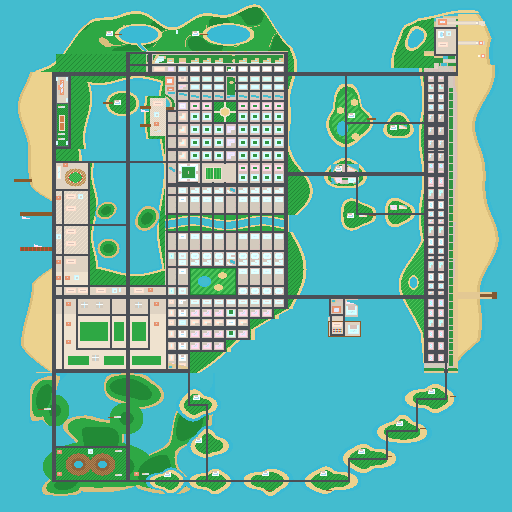
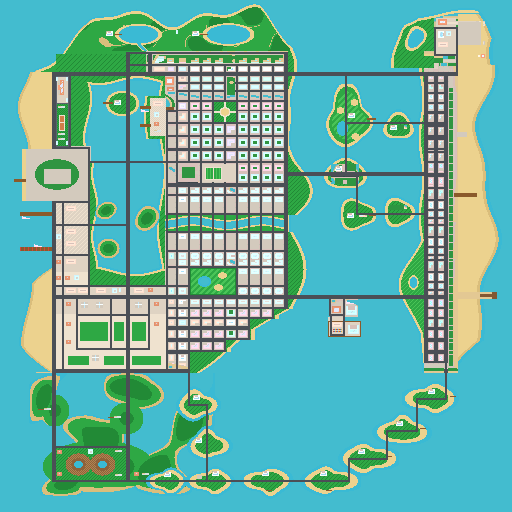
Sync live GPS Smartphone map, [M] Full Map, and vice_cmp_overview.png with Super-Speedway, Hank's Waffles, Mambas Stadium & 3D landmarks (v100_71)

diff --git a/js/object_engine.js b/js/object_engine.js
@@ -8910,9 +8910,29 @@ class WorldObjectEngine {
         for (const [x0, x1, y0, y1] of pavedStonePlazas) {
             ctx.fillRect(x0 * TILE_SIZE * sx, y0 * TILE_SIZE * sy, (x1 - x0 + 1) * TILE_SIZE * sx, (y1 - y0 + 1) * TILE_SIZE * sy);
         }
-        // Vice Beach Pier Wooden Boardwalk (c = 455..467, r = 193..196)
+        // Vice Beach Pier Wooden Boardwalk (c = 454..476, r = 193..196)
         ctx.fillStyle = "#b88655";
-        ctx.fillRect(455 * TILE_SIZE * sx, 193 * TILE_SIZE * sy, 13 * TILE_SIZE * sx, 4 * TILE_SIZE * sy);
+        ctx.fillRect(454 * TILE_SIZE * sx, 193 * TILE_SIZE * sy, 23 * TILE_SIZE * sx, 4 * TILE_SIZE * sy);
+
+        // Vice City Mambas 3D Octagonal Football Stadium (c = 179..197, r = 164..180)
+        if (this.mambasStadium) {
+            const mcx = this.mambasStadium.x * sx;
+            const mcy = this.mambasStadium.y * sy;
+            // Coral concourse plaza
+            ctx.fillStyle = "#d8c0ba";
+            ctx.fillRect(179 * TILE_SIZE * sx, 164 * TILE_SIZE * sy, 19 * TILE_SIZE * sx, 17 * TILE_SIZE * sy);
+            // Outer 3D stadium bowl & teal canopy ring
+            ctx.fillStyle = "#0d9488";
+            ctx.fillRect(mcx - 540 * sx, mcy - 440 * sy, 1080 * sx, 880 * sy);
+            ctx.fillStyle = "#f1f5f9";
+            ctx.fillRect(mcx - 496 * sx, mcy - 396 * sy, 992 * sx, 792 * sy);
+            // Emerald football turf pitch & endzones
+            ctx.fillStyle = "#16a34a";
+            ctx.fillRect(mcx - 384 * sx, mcy - 284 * sy, 768 * sx, 568 * sy);
+            ctx.strokeStyle = "rgba(255, 255, 255, 0.75)";
+            ctx.lineWidth = Math.max(1, 24 * sx);
+            ctx.strokeRect(mcx - 350 * sx, mcy - 256 * sy, 700 * sx, 512 * sy);
+        }
 
         // Major 3D Landmarks on GPS / Overview Map
         const lm = this.landmarks3D || {};
@@ -8927,6 +8947,12 @@ class WorldObjectEngine {
             ctx.fillRect((lm.launchpad.x - 104) * sx, (lm.launchpad.y - 104) * sy, 208 * sx, 208 * sy);
             ctx.fillStyle = "#ea580c";
             ctx.fillRect((lm.launchpad.x - 24) * sx, (lm.launchpad.y - 24) * sy, 48 * sx, 48 * sy);
+        }
+        if (lm.airportTerminal) {
+            ctx.fillStyle = "#cbd5e1";
+            ctx.fillRect((lm.airportTerminal.x - 360) * sx, (lm.airportTerminal.y - 68) * sy, 720 * sx, 136 * sy);
+            ctx.fillStyle = "#0ea5e9";
+            ctx.fillRect((lm.airportTerminal.x - 310) * sx, (lm.airportTerminal.y - 46) * sy, 620 * sx, 92 * sy);
         }
         if (lm.atcTower) {
             ctx.fillStyle = "#cbd5e1";
@@ -8963,20 +8989,51 @@ class WorldObjectEngine {
             ctx.fillRect((lm.thrillbillyArena.x - 78) * sx, (lm.thrillbillyArena.y - 48) * sy, 156 * sx, 96 * sy);
         }
         if (lm.gellhornSpeedway) {
+            // West Coast Golden Sand Beach (c = 22..25, r = 149..200, preserving wooden pier at r = 179..181)
+            ctx.fillStyle = "#ecd28e";
+            ctx.fillRect(22 * TILE_SIZE * sx, 149 * TILE_SIZE * sy, 4 * TILE_SIZE * sx, 30 * TILE_SIZE * sy);
+            ctx.fillRect(22 * TILE_SIZE * sx, 182 * TILE_SIZE * sy, 4 * TILE_SIZE * sx, 19 * TILE_SIZE * sy);
+            // Perimeter Highways around Super-Speedway (North y=147..148, East x=88..89, South y=201..202)
+            ctx.fillStyle = "#4b4f56";
+            ctx.fillRect(52 * TILE_SIZE * sx, 147 * TILE_SIZE * sy, 38 * TILE_SIZE * sx, 2 * TILE_SIZE * sy);
+            ctx.fillRect(88 * TILE_SIZE * sx, 147 * TILE_SIZE * sy, 2 * TILE_SIZE * sx, 56 * TILE_SIZE * sy);
+            ctx.fillRect(52 * TILE_SIZE * sx, 201 * TILE_SIZE * sy, 38 * TILE_SIZE * sx, 2 * TILE_SIZE * sy);
+            // Paved Super-Speedway Paddock Concourse (c = 26..87, r = 149..200)
+            ctx.fillStyle = "#d3cabd";
+            ctx.fillRect(26 * TILE_SIZE * sx, 149 * TILE_SIZE * sy, 62 * TILE_SIZE * sx, 52 * TILE_SIZE * sy);
             const gcx = (lm.gellhornSpeedway.centerX || (57.0 * TILE_SIZE)) * sx;
             const gcy = (lm.gellhornSpeedway.centerY || (174.5 * TILE_SIZE)) * sy;
             const grx = (lm.gellhornSpeedway.rx || (24.5 * TILE_SIZE)) * sx;
             const gry = (lm.gellhornSpeedway.ry || (17.5 * TILE_SIZE)) * sy;
-            ctx.strokeStyle = "#475569";
-            ctx.lineWidth = Math.max(4, 248 * sx);
+            // Emerald Turf Infield + Paved Pit Lane Apron
+            ctx.fillStyle = "#2f9541";
+            ctx.beginPath();
+            ctx.ellipse(gcx, gcy, grx * 0.88, gry * 0.85, 0, 0, Math.PI * 2);
+            ctx.fill();
+            ctx.fillStyle = "#cbd5e1";
+            ctx.fillRect(44 * TILE_SIZE * sx, 169 * TILE_SIZE * sy, 27 * TILE_SIZE * sx, 14 * TILE_SIZE * sy);
+            // Outer FIA Red/White Curbs & 248px Banked Asphalt Super-Oval
+            ctx.strokeStyle = "#ef4444";
+            ctx.lineWidth = Math.max(4.5, 292 * sx);
             ctx.beginPath();
             ctx.ellipse(gcx, gcy, grx, gry, 0, 0, Math.PI * 2);
             ctx.stroke();
+            ctx.strokeStyle = "#334155";
+            ctx.lineWidth = Math.max(3.5, 248 * sx);
+            ctx.beginPath();
+            ctx.ellipse(gcx, gcy, grx, gry, 0, 0, Math.PI * 2);
+            ctx.stroke();
+            // North & South Covered Mega-Grandstands + 6-Bay Infield Pit Crew Garage
             ctx.fillStyle = "#ef4444";
-            ctx.fillRect(gcx - 440 * sx, gcy - 1330 * sy, 880 * sx, 68 * sy);
-            ctx.fillRect(gcx - 380 * sx, gcy + 1262 * sy, 760 * sx, 68 * sy);
-            ctx.fillStyle = "#cbd5e1";
-            ctx.fillRect(gcx - 190 * sx, gcy - 96 * sy, 380 * sx, 64 * sy);
+            ctx.fillRect(gcx - 440 * sx, gcy - 1330 * sy, 880 * sx, 76 * sy);
+            ctx.fillRect(gcx - 380 * sx, gcy + 1262 * sy, 760 * sx, 76 * sy);
+            ctx.fillStyle = "#f8fafc";
+            ctx.fillRect(gcx - 190 * sx, gcy - 96 * sy, 380 * sx, 68 * sy);
+            // Hank's Waffles & Uncle Jack's Pawn / Liquor Commercial Block (c = 66..75, r = 206..210)
+            ctx.fillStyle = "#ea580c";
+            ctx.fillRect(66 * TILE_SIZE * sx, 206 * TILE_SIZE * sy, 10 * TILE_SIZE * sx, 5 * TILE_SIZE * sy);
+            ctx.fillStyle = "#fde047";
+            ctx.fillRect(67 * TILE_SIZE * sx, 207 * TILE_SIZE * sy, 8 * TILE_SIZE * sx, 3 * TILE_SIZE * sy);
         }
         if (lm.wynwoodWalls) {
             ctx.fillStyle = "#ec4899";

diff --git a/js/renderer.js b/js/renderer.js
@@ -4654,7 +4654,7 @@ class RetroRenderer {
             checkReady();
         });
 
-        loadImageWithRetry(this.viceOverviewImg, "assets/gta1/vice_cmp_overview.png?v=99_41", () => {
+        loadImageWithRetry(this.viceOverviewImg, "assets/gta1/vice_cmp_overview.png?v=100_71", () => {
             this.viceOverviewReady = true;
             this.bakeRadarBackground();
         });
@@ -11666,6 +11666,19 @@ class RetroRenderer {
             }
         }
 
+        // Enterable Venue Doors (Hank's Waffles, Clubs, Hotels, Shops, Mansions) when zoomed in
+        if (Array.isArray(this.map.interiors) && zoomMode < 2) {
+            for (const intr of this.map.interiors) {
+                const pt = worldToMini(intr.doorX, intr.doorY);
+                if (pt.x < mx - 4 || pt.x > mx + mw + 4 || pt.y < my - 4 || pt.y > my + mh + 4) continue;
+                ctx.fillStyle = intr.accent || "#f472b6";
+                ctx.fillRect(pt.x - 2, pt.y - 2, 4, 4);
+                ctx.strokeStyle = "#090d16";
+                ctx.lineWidth = 0.8;
+                ctx.strokeRect(pt.x - 2, pt.y - 2, 4, 4);
+            }
+        }
+
         // Nearby Vehicles, Cops & Ambient Crime Shootouts
         if (Array.isArray(game.vehicles) && zoomMode < 2) {
             const copFlash = Math.floor(this.time * 8) % 2 === 0;
@@ -12669,22 +12682,30 @@ class RetroRenderer {
         const rawImg = useVice ? this.viceOverviewImg : (this.nycOverviewReady ? this.nycOverviewImg : null);
         if (!rawImg) return;
         let srcImg = rawImg;
-        this.liveOverviewCanvas = null;
+        if (useVice && this.map && this.map.objectEngine) {
+            if (!this.liveOverviewCanvas) {
+                this.liveOverviewCanvas = document.createElement("canvas");
+                this.liveOverviewCanvas.width = 1024;
+                this.liveOverviewCanvas.height = 1024;
+            }
+            const octx = this.liveOverviewCanvas.getContext("2d");
+            octx.imageSmoothingEnabled = false;
+            octx.clearRect(0, 0, 1024, 1024);
+            octx.drawImage(rawImg, 0, 0, 1024, 1024);
+            this.map.objectEngine.paintOnOverviewCanvas(octx, 1024, 1024);
+            srcImg = this.liveOverviewCanvas;
+        } else {
+            this.liveOverviewCanvas = null;
+        }
         if (this.fullMapBgCanvas) {
             const fctx = this.fullMapBgCanvas.getContext("2d");
             fctx.imageSmoothingEnabled = false;
             fctx.drawImage(srcImg, 0, 0, this.fullMapBgCanvas.width, this.fullMapBgCanvas.height);
-            if (useVice && this.map && this.map.objectEngine) {
-                this.map.objectEngine.paintOnOverviewCanvas(fctx, this.fullMapBgCanvas.width, this.fullMapBgCanvas.height);
-            }
         }
         if (this.radarBgCanvas) {
             const rctx = this.radarBgCanvas.getContext("2d");
             rctx.imageSmoothingEnabled = false;
             rctx.drawImage(srcImg, 0, 0, this.radarBgCanvas.width, this.radarBgCanvas.height);
-            if (useVice && this.map && this.map.objectEngine) {
-                this.map.objectEngine.paintOnOverviewCanvas(rctx, this.radarBgCanvas.width, this.radarBgCanvas.height);
-            }
         }
     }
 

diff --git a/index.html b/index.html
@@ -397,14 +397,14 @@
     </div>
 
     <!-- Modular Zero-Dependency 2.5D Engine Scripts -->
-    <script src="js/audio.js?v=100_70"></script>
-    <script src="js/interiors.js?v=100_70"></script>
-    <script src="js/object_engine.js?v=100_70"></script>
-    <script src="js/map.js?v=100_70"></script>
-    <script src="js/entities.js?v=100_70"></script>
-    <script src="js/missions.js?v=100_70"></script>
-    <script src="js/renderer.js?v=100_70"></script>
-    <script src="js/net.js?v=100_70"></script>
-    <script src="js/game.js?v=100_70"></script>
+    <script src="js/audio.js?v=100_71"></script>
+    <script src="js/interiors.js?v=100_71"></script>
+    <script src="js/object_engine.js?v=100_71"></script>
+    <script src="js/map.js?v=100_71"></script>
+    <script src="js/entities.js?v=100_71"></script>
+    <script src="js/missions.js?v=100_71"></script>
+    <script src="js/renderer.js?v=100_71"></script>
+    <script src="js/net.js?v=100_71"></script>
+    <script src="js/game.js?v=100_71"></script>
 </body>
 </html>
